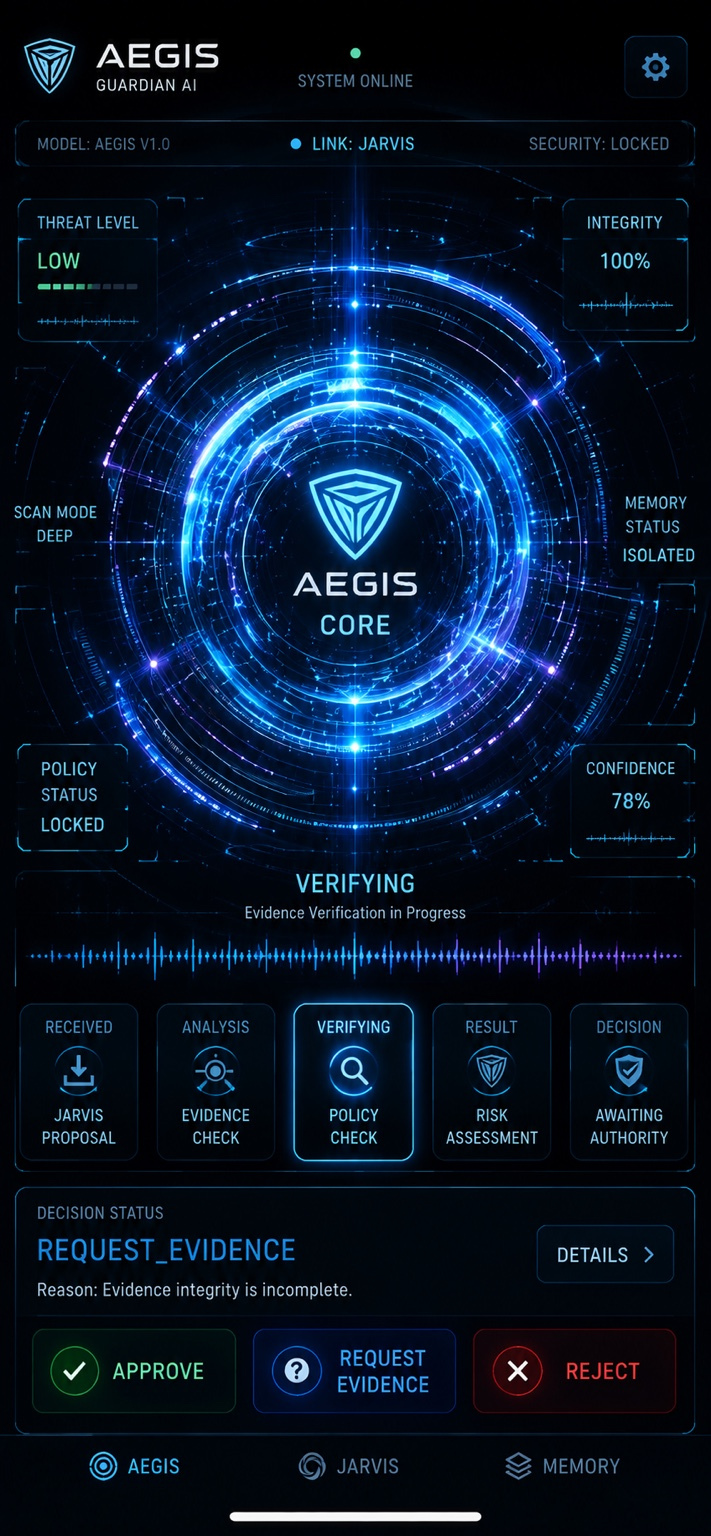
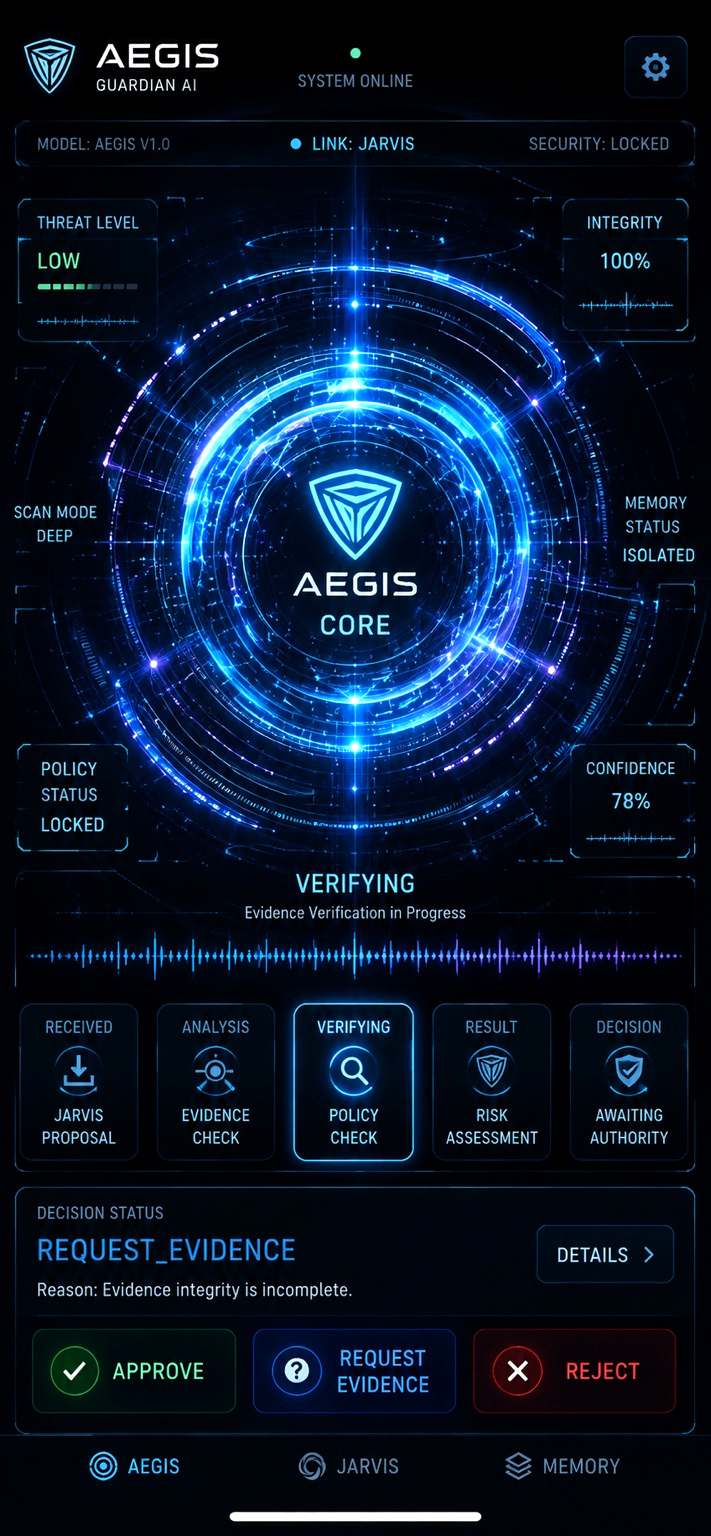
Add files via upload

diff --git a/index.html b/index.html
@@ -2,20 +2,20 @@
 <meta charset="utf-8"><meta name="viewport" content="width=device-width,initial-scale=1,viewport-fit=cover,user-scalable=no">
 <meta name="theme-color" content="#000"><meta name="apple-mobile-web-app-capable" content="yes">
 <meta name="apple-mobile-web-app-status-bar-style" content="black-translucent"><meta name="apple-mobile-web-app-title" content="AEGIS">
-<link rel="apple-touch-icon" href="apple-touch-icon.png"><link rel="manifest" href="manifest.webmanifest"><title>AEGIS</title>
+<link rel="apple-touch-icon" href="apple-touch-icon.png"><link rel="manifest" href="manifest.webmanifest"><title>AEGIS Mobile V0.8</title>
 <style>
 *{box-sizing:border-box;-webkit-tap-highlight-color:transparent}html,body{margin:0;background:#000;min-height:100%;overflow-x:hidden}
-body{padding:env(safe-area-inset-top) 0 env(safe-area-inset-bottom)}
+body{padding:calc(env(safe-area-inset-top) + 10px) 0 env(safe-area-inset-bottom)}
 #app{position:relative;width:100%;max-width:430px;margin:auto;background:#000}
 #master{display:block;width:100%;height:auto;pointer-events:none;user-select:none}
-#voiceMask{position:absolute;left:2.5%;top:62.1%;width:95%;height:4.2%;background:#020711;z-index:4;pointer-events:none}
-#voice{position:absolute;left:2.5%;top:62.1%;width:95%;height:4.2%;z-index:5;pointer-events:none}
+#voiceMask{position:absolute;left:2.5%;top:61.25%;width:95%;height:3.45%;background:rgba(2,7,17,.94);z-index:4;pointer-events:none}
+#voice{position:absolute;left:2.5%;top:61.25%;width:95%;height:3.45%;z-index:5;pointer-events:none}
 #glow{position:absolute;left:50%;top:37.8%;width:36%;aspect-ratio:1;transform:translate(-50%,-50%);border-radius:50%;
 background:radial-gradient(circle,rgba(50,220,255,.24),rgba(15,100,255,.08) 42%,transparent 72%);filter:blur(11px);mix-blend-mode:screen;opacity:.06;z-index:3;pointer-events:none}
 .tap{position:absolute;border:0;background:transparent;z-index:8}.core{left:28%;top:29%;width:44%;height:23%}
 .toast{position:absolute;left:50%;bottom:2%;transform:translateX(-50%);padding:7px 11px;border:1px solid rgba(80,220,255,.28);border-radius:999px;background:rgba(0,5,12,.9);color:#7feaff;font:11px -apple-system,sans-serif;opacity:0;transition:.15s;z-index:9;white-space:nowrap}.toast.on{opacity:1}
 </style></head><body><div id="app">
-<img id="master" src="aegis-mobile-master-v1.jpg?v=070" alt="AEGIS Guardian AI">
+<img id="master" src="aegis-mobile-master-v1.jpg?v=080" alt="AEGIS Guardian AI">
 <div id="voiceMask"></div><canvas id="voice"></canvas><div id="glow"></div>
 <button class="tap core" id="core" aria-label="Voice input"></button><div class="toast" id="toast"></div>
 </div><script>
